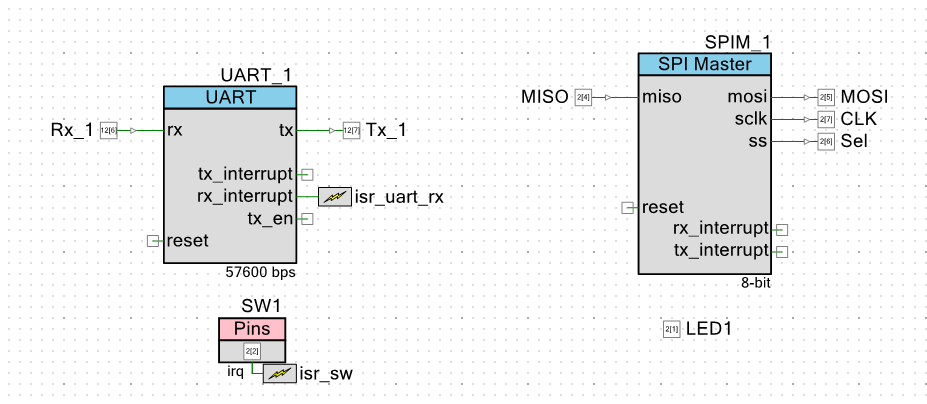
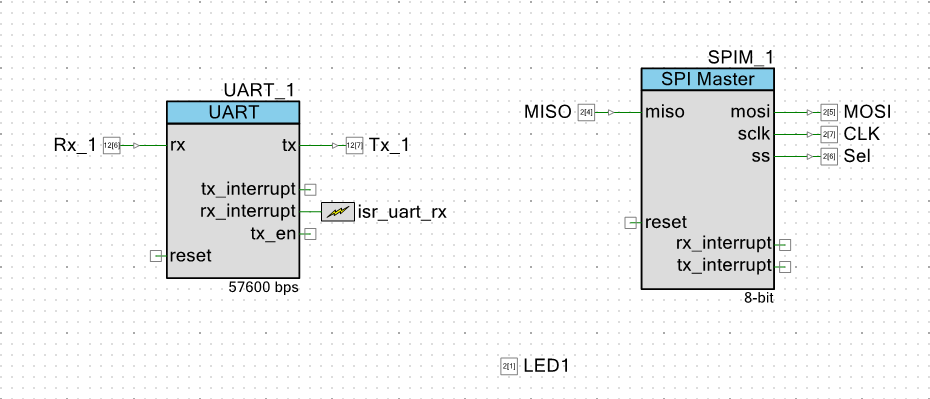
Removed SW1
yeeeeeeeeeeeeeeeeeet

diff --git a/Lab-CommunicationBuses-Group65/PSoC/SPI/SPImaster.cydsn/SPImaster.c b/Lab-CommunicationBuses-Group65/PSoC/SPI/SPImaster.cydsn/SPImaster.c
@@ -16,14 +16,11 @@
 
 
 
-void init(void * UARTISR, void * SWISR)
+void init(void * UARTISR)
 {
-    CyGlobalIntEnable; /* Enable global interrupts. */
-
     /* Place your initialization/startup code here (e.g. MyInst_Start()) */
     //Initializes the interrupts with the given inputs
     isr_uart_rx_StartEx(UARTISR);
-    isr_sw_StartEx(SWISR);
     //Starts the components from topdesign.
     UART_1_Start();
     SPIM_1_Start();
@@ -40,7 +37,7 @@ void handleByteReceived(uint8_t byteReceived, uint8_t * poller, char * buffer, u
 {
     switch(byteReceived)
     {
-        case '\r' : //Sends string on return carage receved
+        case '\r' : //Sends string on return carriage receved
         {
             sendString(buffer, counter);
             LED1_Write(1);
@@ -75,8 +72,8 @@ uint8 pollSlave() {
 
 void sendString(char * buffer, uint8_t * counter) 
 {
-    UART_1_PutString("\r\n"); //New line, carage return.
-    buffer[*counter] = '\r'; //Sets end of buffer to carage return.
+    UART_1_PutString("\r\n"); //New line, carriage return.
+    buffer[*counter] = '\r'; //Sets end of buffer to carriage return.
     buffer[*counter+1] = 0; //Sets end of buffer to end of string char.
     UART_1_PutString(buffer); //Sends the string to the UART.
     for(int i = 0; buffer[i] != 0; i++) {

diff --git a/Lab-CommunicationBuses-Group65/PSoC/SPI/SPImaster.cydsn/main.c b/Lab-CommunicationBuses-Group65/PSoC/SPI/SPImaster.cydsn/main.c
@@ -14,7 +14,6 @@
 #include "../SPI_cmd.h"
 
 CY_ISR_PROTO(ISR_UART_rx_handler);
-CY_ISR_PROTO(ISR_SW_handler);
 char buf[25];
 uint8_t ptr = 0;
 uint8_t polling = 0;
@@ -22,7 +21,8 @@ int numprinted = 0;
 
 int main(void)
 {
-    init(ISR_UART_rx_handler, ISR_SW_handler);
+    CyGlobalIntEnable; /* Enable global interrupts. */
+    init(ISR_UART_rx_handler);
 
     for(;;)
     {
@@ -34,11 +34,6 @@ int main(void)
     }
 }
 
-CY_ISR(ISR_SW_handler) {
-    SPIM_1_WriteTxData('c');
-    SW1_ClearInterrupt();
-    UART_1_PutChar(SPIM_1_ReadRxData());
-}
 
 CY_ISR(ISR_UART_rx_handler) {
     

diff --git a/Lab-CommunicationBuses-Group65/PSoC/SPI/SPImaster.cydsn/SPImaster.h b/Lab-CommunicationBuses-Group65/PSoC/SPI/SPImaster.cydsn/SPImaster.h
@@ -11,7 +11,7 @@
 */
 #include "project.h"
 
-void init(void * UARTISR, void * SWISR); //Initializes the interrupts and the components. Takes to interrupts at parameters.
+void init(void * UARTISR); //Initializes the interrupts and the components. Takes to interrupts at parameters.
 void turnOnLED(); //Turns on LED1
 void turnOffLED(); //Turns off LED1
 void handleByteReceived(uint8_t byteReceived, uint8_t * poller, char * buffer, uint8_t * counter); //Handles the reading and understanding of receved input from the UART
